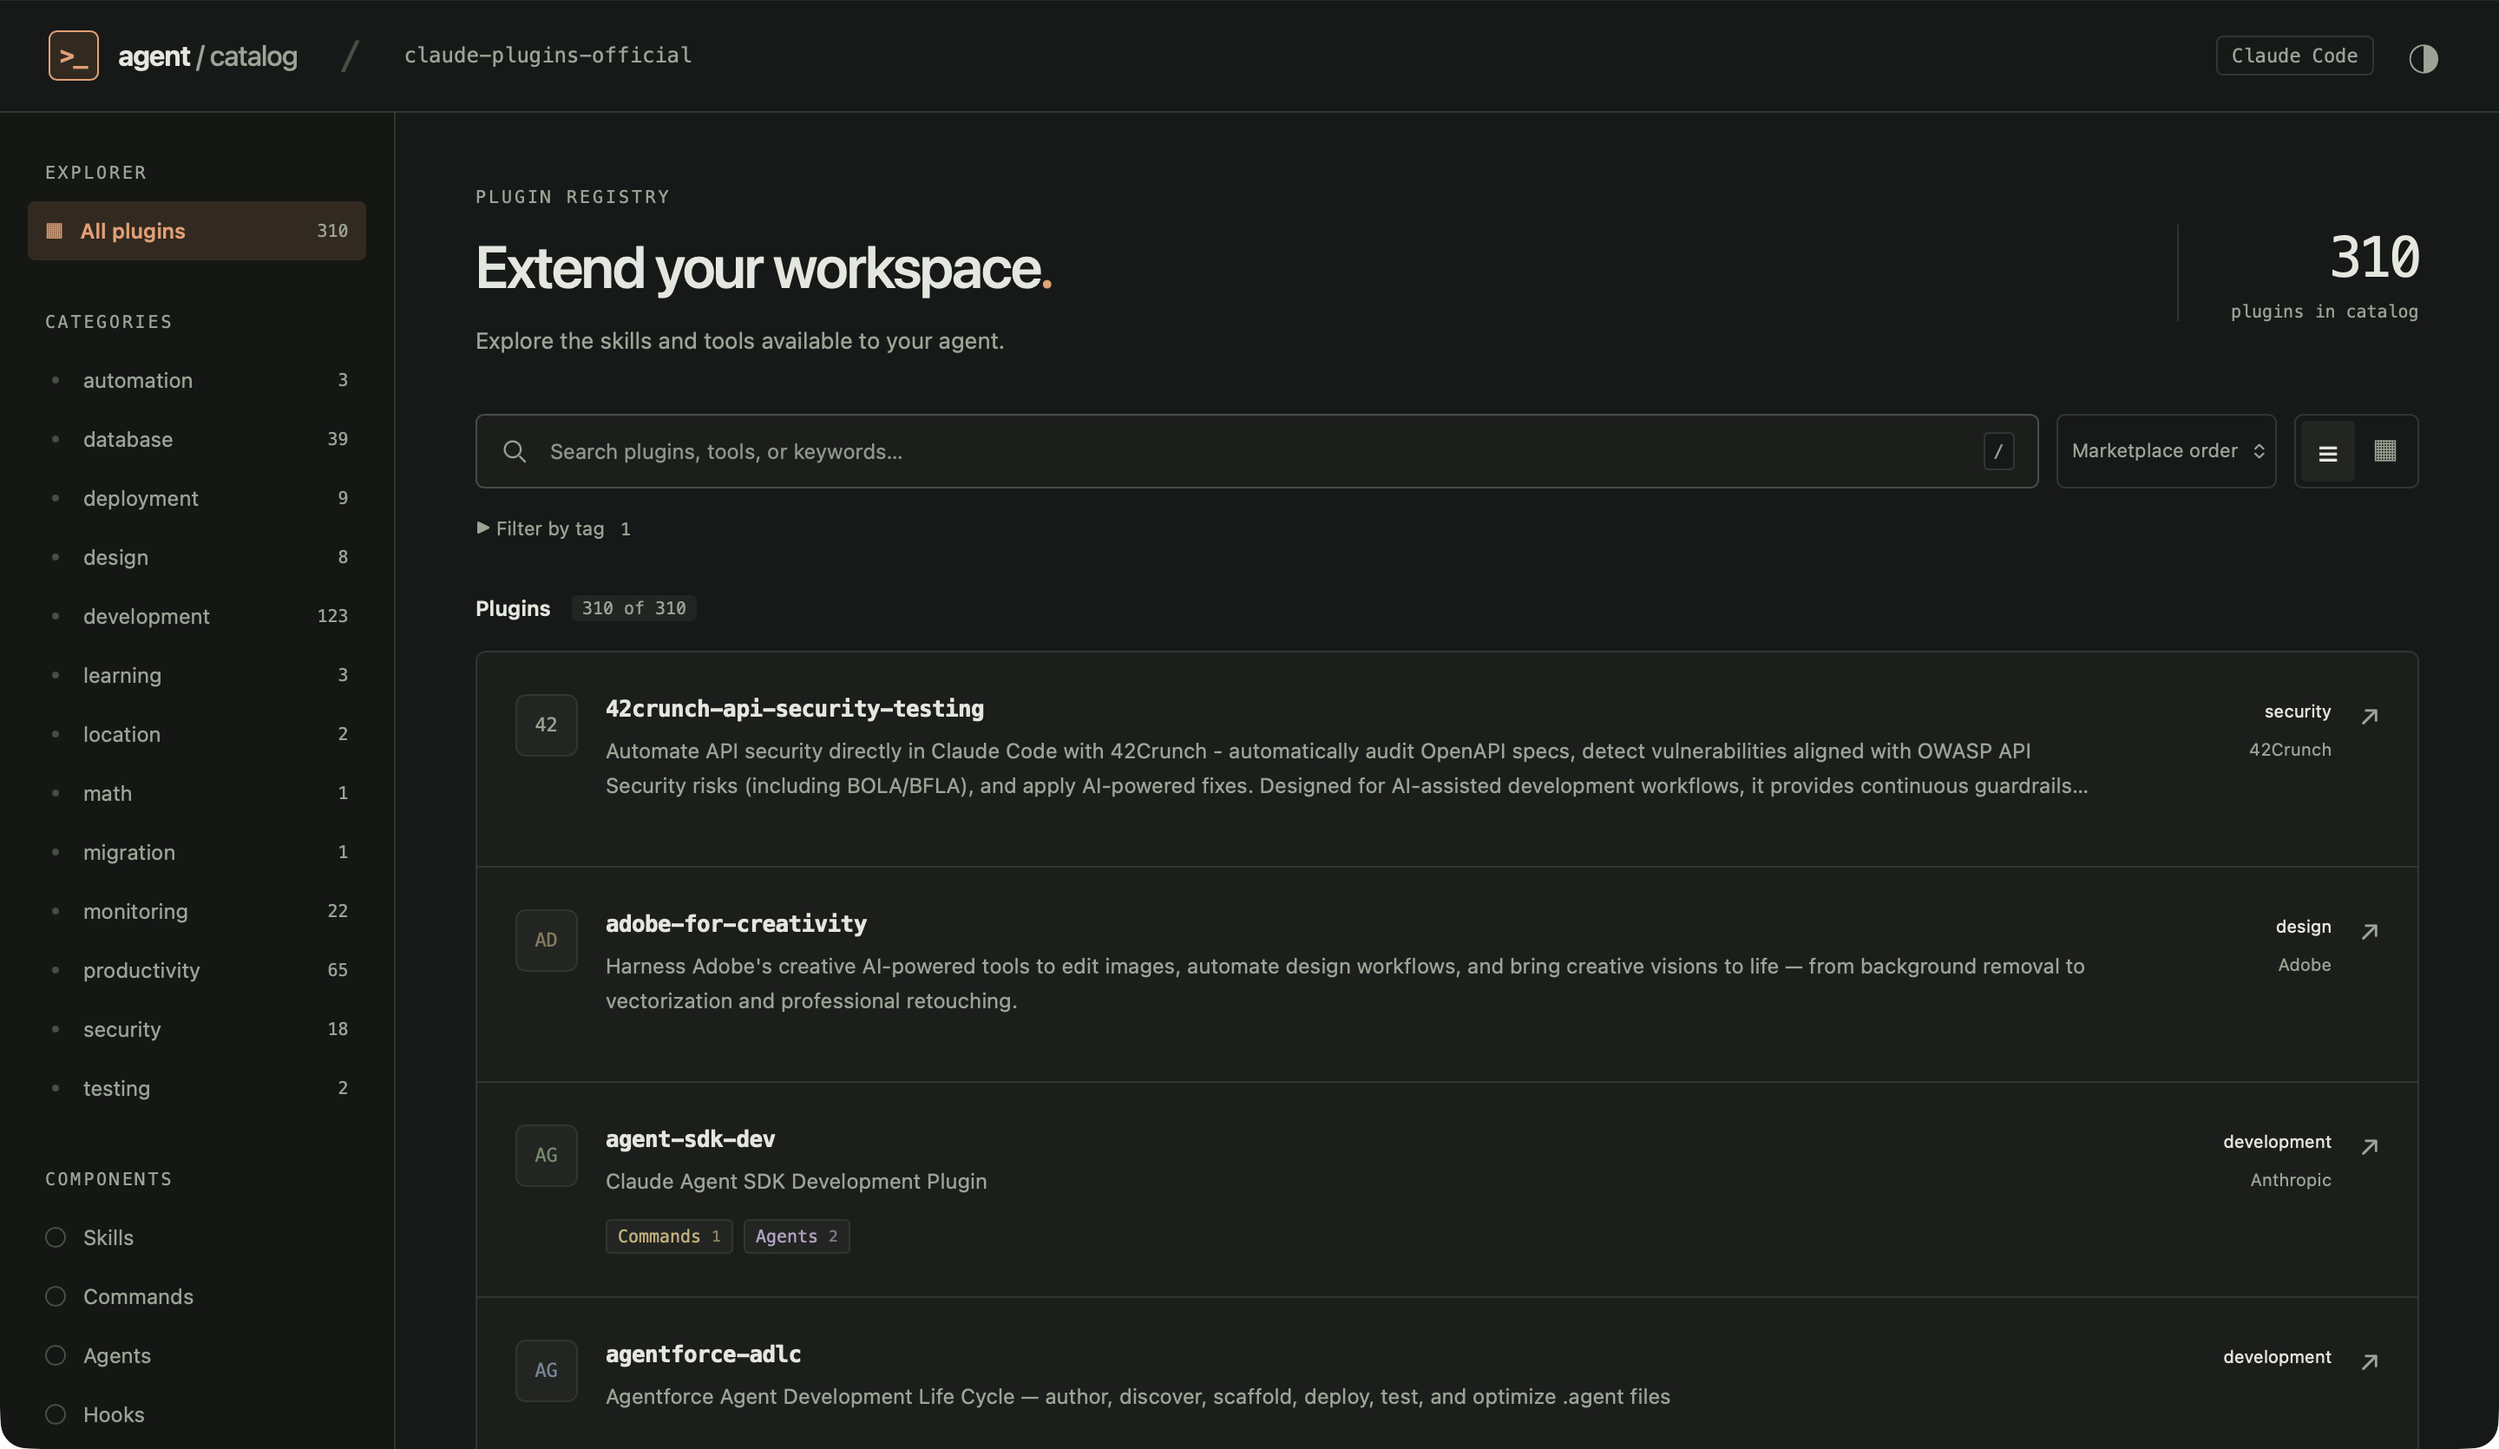
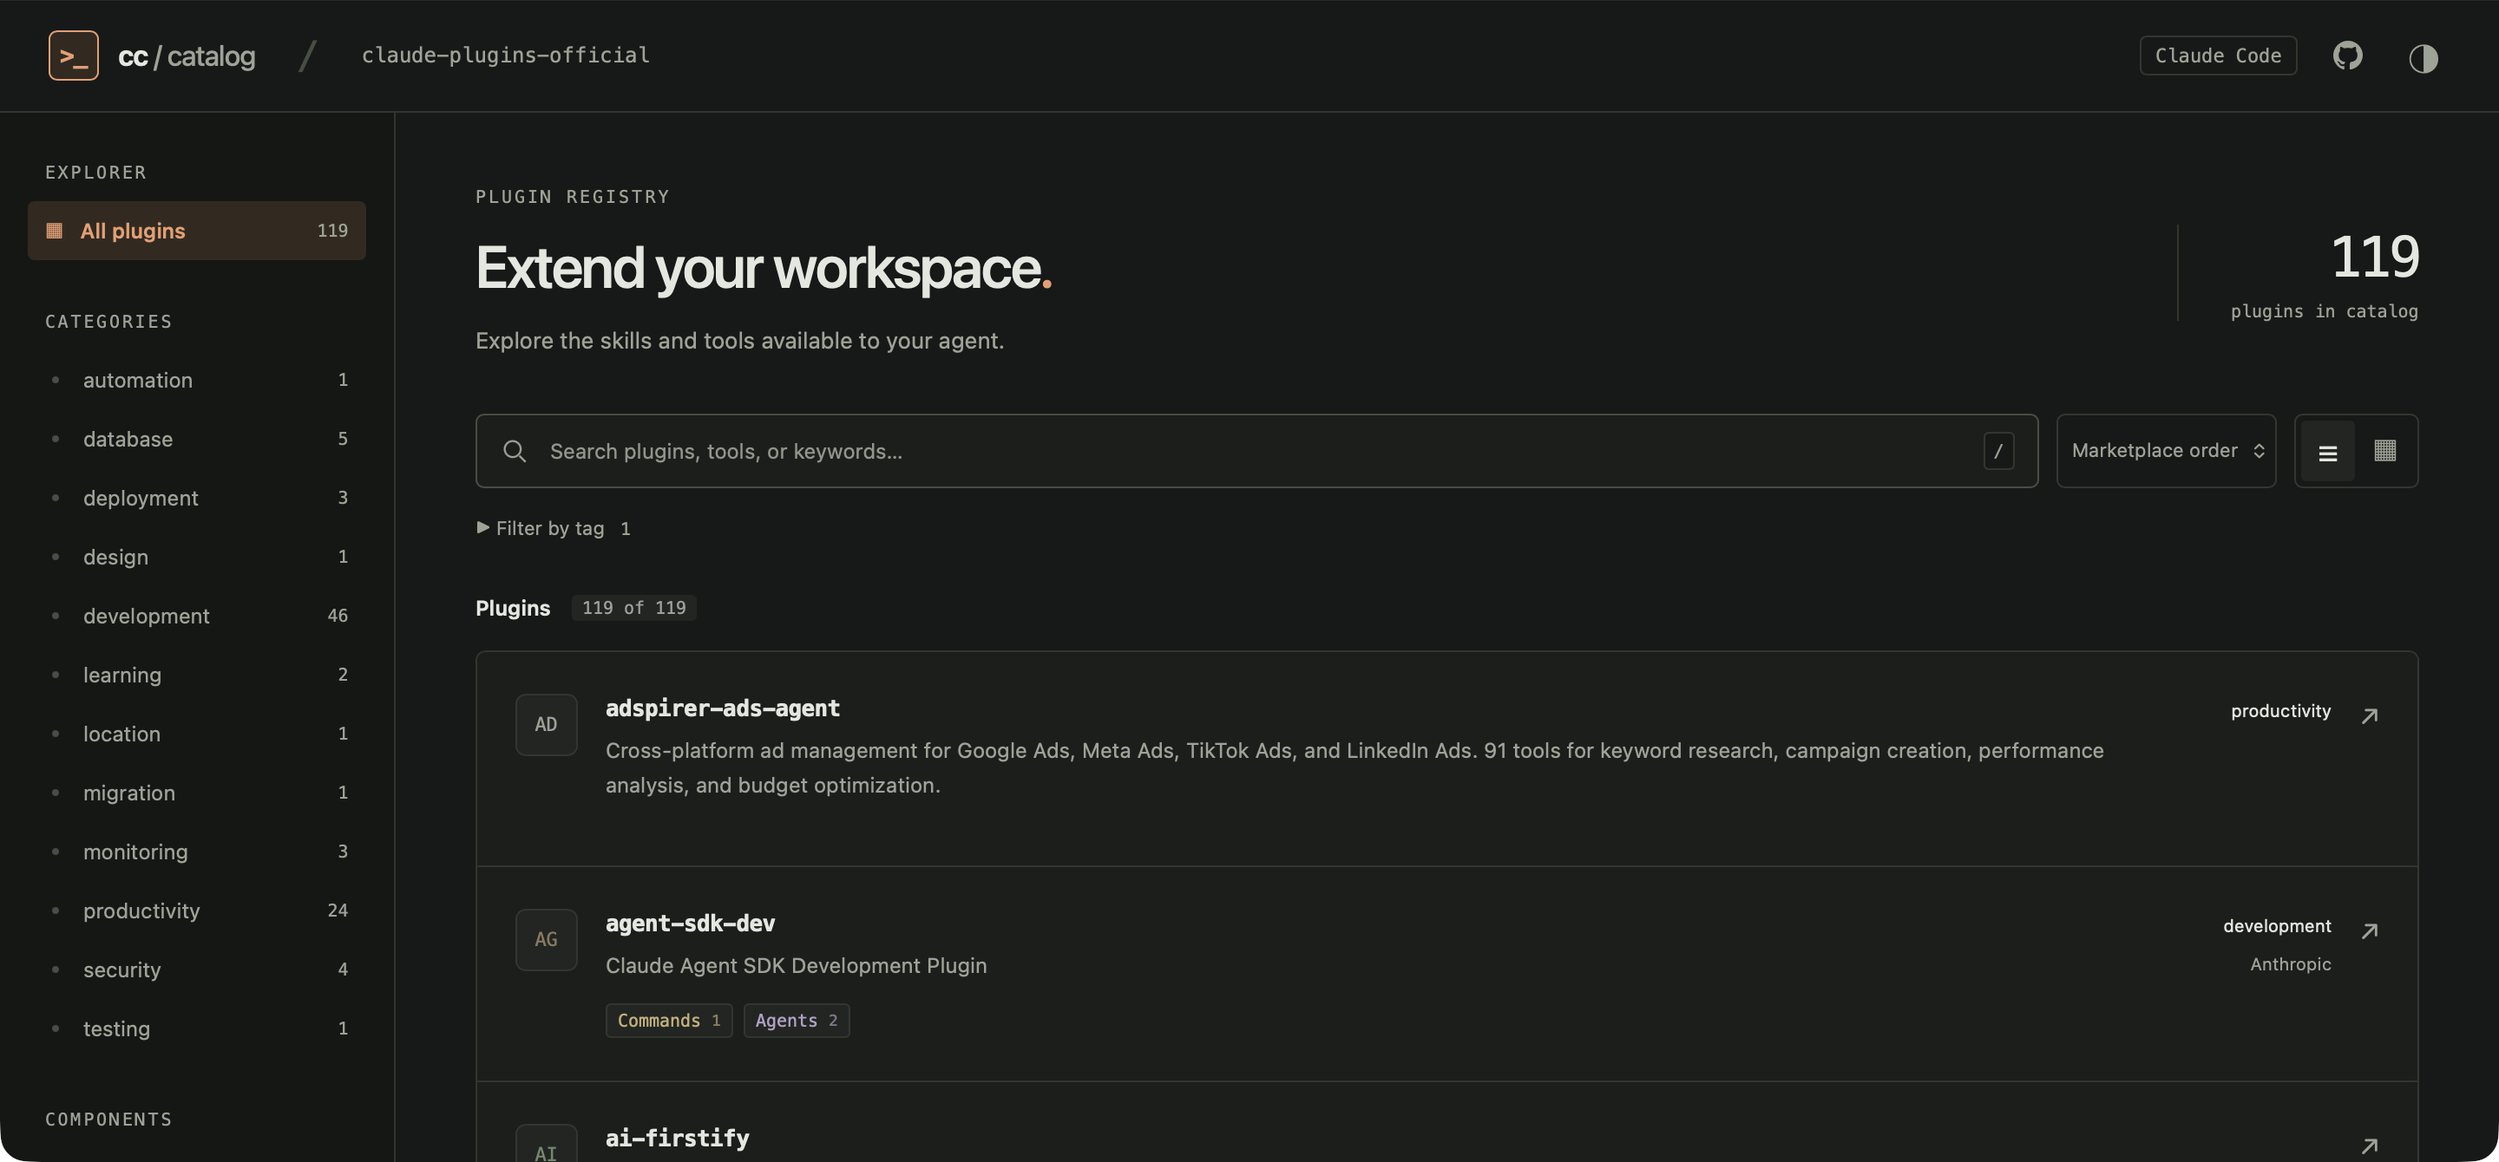
Restore cc-plugin-catalog naming for version 2.0.0

diff --git a/src/cc_plugin_catalog/templates/base.html b/src/cc_plugin_catalog/templates/base.html
@@ -21,7 +21,7 @@
         <div class="header-inner">
             <a href="{% block home_href %}index.html{% endblock %}" class="header-title">
                 {% if logo %}<img src="{% block logo_path %}static/{{ logo }}{% endblock %}" alt="" class="header-logo">{% else %}<span class="brand-mark" aria-hidden="true">&gt;_</span>{% endif %}
-                <span>agent<span class="brand-muted"> / catalog</span></span>
+                <span>cc<span class="brand-muted"> / catalog</span></span>
             </a>
             <span class="header-divider" aria-hidden="true">/</span>
             <span class="workspace-name">{{ marketplace.title }}</span>
@@ -53,7 +53,7 @@
     </div>
     <footer class="site-footer">
         <span><span class="status-dot" aria-hidden="true"></span> Static catalog <span class="footer-separator">/</span> {{ marketplace.plugins | length }} plugins</span>
-        <span class="footer-powered">Built with <a href="https://github.com/giginet/agent-plugin-catalog">agent-plugin-catalog</a></span>
+        <span class="footer-powered">Built with <a href="https://github.com/giginet/cc-plugin-catalog">cc-plugin-catalog</a></span>
     </footer>
     {% block scripts %}{% endblock %}
 </body>

diff --git a/tests/test_builder.py b/tests/test_builder.py
@@ -5,7 +5,7 @@ from unittest.mock import patch
 
 import pytest
 
-from agent_plugin_catalog.builder import (
+from cc_plugin_catalog.builder import (
     RepositoryNotDetectedError,
     _extract_repo_id,
     _get_repo_base_url,
@@ -126,7 +126,7 @@ class TestGetRepoBaseUrl:
         import subprocess
 
         result = subprocess.CompletedProcess(args=[], returncode=0, stdout=f"{url}\n")
-        return patch("agent_plugin_catalog.builder.subprocess.run", return_value=result)
+        return patch("cc_plugin_catalog.builder.subprocess.run", return_value=result)
 
     def test_github_ssh_url(self, tmp_path: Path) -> None:
         with self._mock_git_remote("git@github.com:owner/repo.git"):
@@ -169,7 +169,7 @@ class TestGetRepoBaseUrl:
         monkeypatch.setenv("GITHUB_REPOSITORY", "owner/repo")
         monkeypatch.delenv("GITHUB_SERVER_URL", raising=False)
         with patch(
-            "agent_plugin_catalog.builder.subprocess.run",
+            "cc_plugin_catalog.builder.subprocess.run",
             side_effect=FileNotFoundError,
         ):
             assert _get_repo_base_url(tmp_path) == "https://github.com/owner/repo"
@@ -181,7 +181,7 @@ class TestGetRepoBaseUrl:
         monkeypatch.setenv("GITHUB_REPOSITORY", "owner/repo")
         monkeypatch.setenv("GITHUB_SERVER_URL", "https://ghe.example.com")
         with patch(
-            "agent_plugin_catalog.builder.subprocess.run",
+            "cc_plugin_catalog.builder.subprocess.run",
             side_effect=FileNotFoundError,
         ):
             assert _get_repo_base_url(tmp_path) == "https://ghe.example.com/owner/repo"
@@ -190,7 +190,7 @@ class TestGetRepoBaseUrl:
         """Returns None when git is unavailable and no env vars are set."""
         monkeypatch.delenv("GITHUB_REPOSITORY", raising=False)
         with patch(
-            "agent_plugin_catalog.builder.subprocess.run",
+            "cc_plugin_catalog.builder.subprocess.run",
             side_effect=FileNotFoundError,
         ):
             assert _get_repo_base_url(tmp_path) is None
@@ -251,7 +251,7 @@ class TestBuildSiteRepositoryId:
     ) -> None:
         """build_site raises UsageError when repository cannot be resolved."""
         with (
-            patch("agent_plugin_catalog.builder._get_repo_base_url", return_value=None),
+            patch("cc_plugin_catalog.builder._get_repo_base_url", return_value=None),
             pytest.raises(RepositoryNotDetectedError, match="Could not detect"),
         ):
             build_site(sample_marketplace_path, tmp_path)
@@ -260,9 +260,7 @@ class TestBuildSiteRepositoryId:
         self, sample_marketplace_path: Path, tmp_path: Path
     ) -> None:
         """build_site succeeds with --marketplace-repository when no git remote."""
-        with patch(
-            "agent_plugin_catalog.builder._get_repo_base_url", return_value=None
-        ):
+        with patch("cc_plugin_catalog.builder._get_repo_base_url", return_value=None):
             build_site(
                 sample_marketplace_path,
                 tmp_path,
@@ -275,7 +273,7 @@ class TestBuildSiteRepositoryId:
     ) -> None:
         """build_site auto-detects GHE HTTPS remote as full URL."""
         with patch(
-            "agent_plugin_catalog.builder._get_repo_base_url",
+            "cc_plugin_catalog.builder._get_repo_base_url",
             return_value="https://my-git-server.com/owner/repo",
         ):
             build_site(sample_marketplace_path, tmp_path)

diff --git a/tests/test_codex.py b/tests/test_codex.py
@@ -6,14 +6,14 @@ from unittest.mock import patch
 
 import pytest
 
-from agent_plugin_catalog.builder import (
+from cc_plugin_catalog.builder import (
     _build_source_url,
     _resolve_plugin_path,
     build_site,
 )
-from agent_plugin_catalog.cli import main
-from agent_plugin_catalog.parser import parse_marketplace, parse_plugin_manifest
-from agent_plugin_catalog.scanner import scan_plugin
+from cc_plugin_catalog.cli import main
+from cc_plugin_catalog.parser import parse_marketplace, parse_plugin_manifest
+from cc_plugin_catalog.scanner import scan_plugin
 
 
 def write_json(root: Path, name: str, data: dict) -> None:
@@ -150,7 +150,7 @@ def test_codex_source_resolution(codex_repo: Path) -> None:
 def test_codex_catalog_end_to_end(codex_repo: Path, tmp_path: Path) -> None:
     output = tmp_path / "site"
     with patch(
-        "agent_plugin_catalog.builder._get_repo_base_url",
+        "cc_plugin_catalog.builder._get_repo_base_url",
         return_value="https://github.com/example/plugins",
     ):
         main(
@@ -170,7 +170,7 @@ def test_codex_catalog_end_to_end(codex_repo: Path, tmp_path: Path) -> None:
     assert "Team Plugins" in index and "Team Helper" in index
     assert 'href="plugins/helper/index.html"' in index
     assert "Owner:" not in index
-    assert "agent-plugin-catalog" in index
+    assert "cc-plugin-catalog" in index
     assert "codex plugin marketplace add example/plugins" in detail
     assert "claude plugin" not in detail
     assert "Greet the user" in detail and "Say hello." in detail
@@ -302,4 +302,4 @@ def test_cli_renamed_version(capsys) -> None:
     with pytest.raises(SystemExit) as error:
         main(["--version"])
     assert error.value.code == 0
-    assert capsys.readouterr().out.startswith("agent-plugin-catalog ")
+    assert capsys.readouterr().out.startswith("cc-plugin-catalog ")

diff --git a/tests/test_cli.py b/tests/test_cli.py
@@ -5,7 +5,7 @@ import urllib.request
 from pathlib import Path
 from unittest.mock import patch
 
-from agent_plugin_catalog.cli import main
+from cc_plugin_catalog.cli import main
 
 
 class TestBuildCommand:
@@ -14,7 +14,7 @@ class TestBuildCommand:
     ) -> None:
         output_dir = tmp_path / "output"
         with patch(
-            "agent_plugin_catalog.builder._get_repo_base_url",
+            "cc_plugin_catalog.builder._get_repo_base_url",
             return_value="https://github.com/test/repo",
         ):
             main(["build", str(sample_marketplace_path), "-o", str(output_dir)])
@@ -41,7 +41,7 @@ class TestPreviewCommand:
 
         # Build first so we can verify the server serves the right files
         with patch(
-            "agent_plugin_catalog.builder._get_repo_base_url",
+            "cc_plugin_catalog.builder._get_repo_base_url",
             return_value="https://github.com/test/repo",
         ):
             main(["build", str(sample_marketplace_path), "-o", str(output_dir)])

diff --git a/src/cc_plugin_catalog/cli.py b/src/cc_plugin_catalog/cli.py
@@ -1,4 +1,4 @@
-"""CLI entry point for agent-plugin-catalog."""
+"""CLI entry point for cc-plugin-catalog."""
 
 from __future__ import annotations
 
@@ -105,7 +105,7 @@ def _cmd_preview(args: argparse.Namespace) -> None:
 def main(argv: list[str] | None = None) -> None:
     """CLI entry point."""
     parser = argparse.ArgumentParser(
-        prog="agent-plugin-catalog",
+        prog="cc-plugin-catalog",
         description="Generate static catalogs for Claude Code and Codex marketplaces.",
     )
     parser.add_argument(
